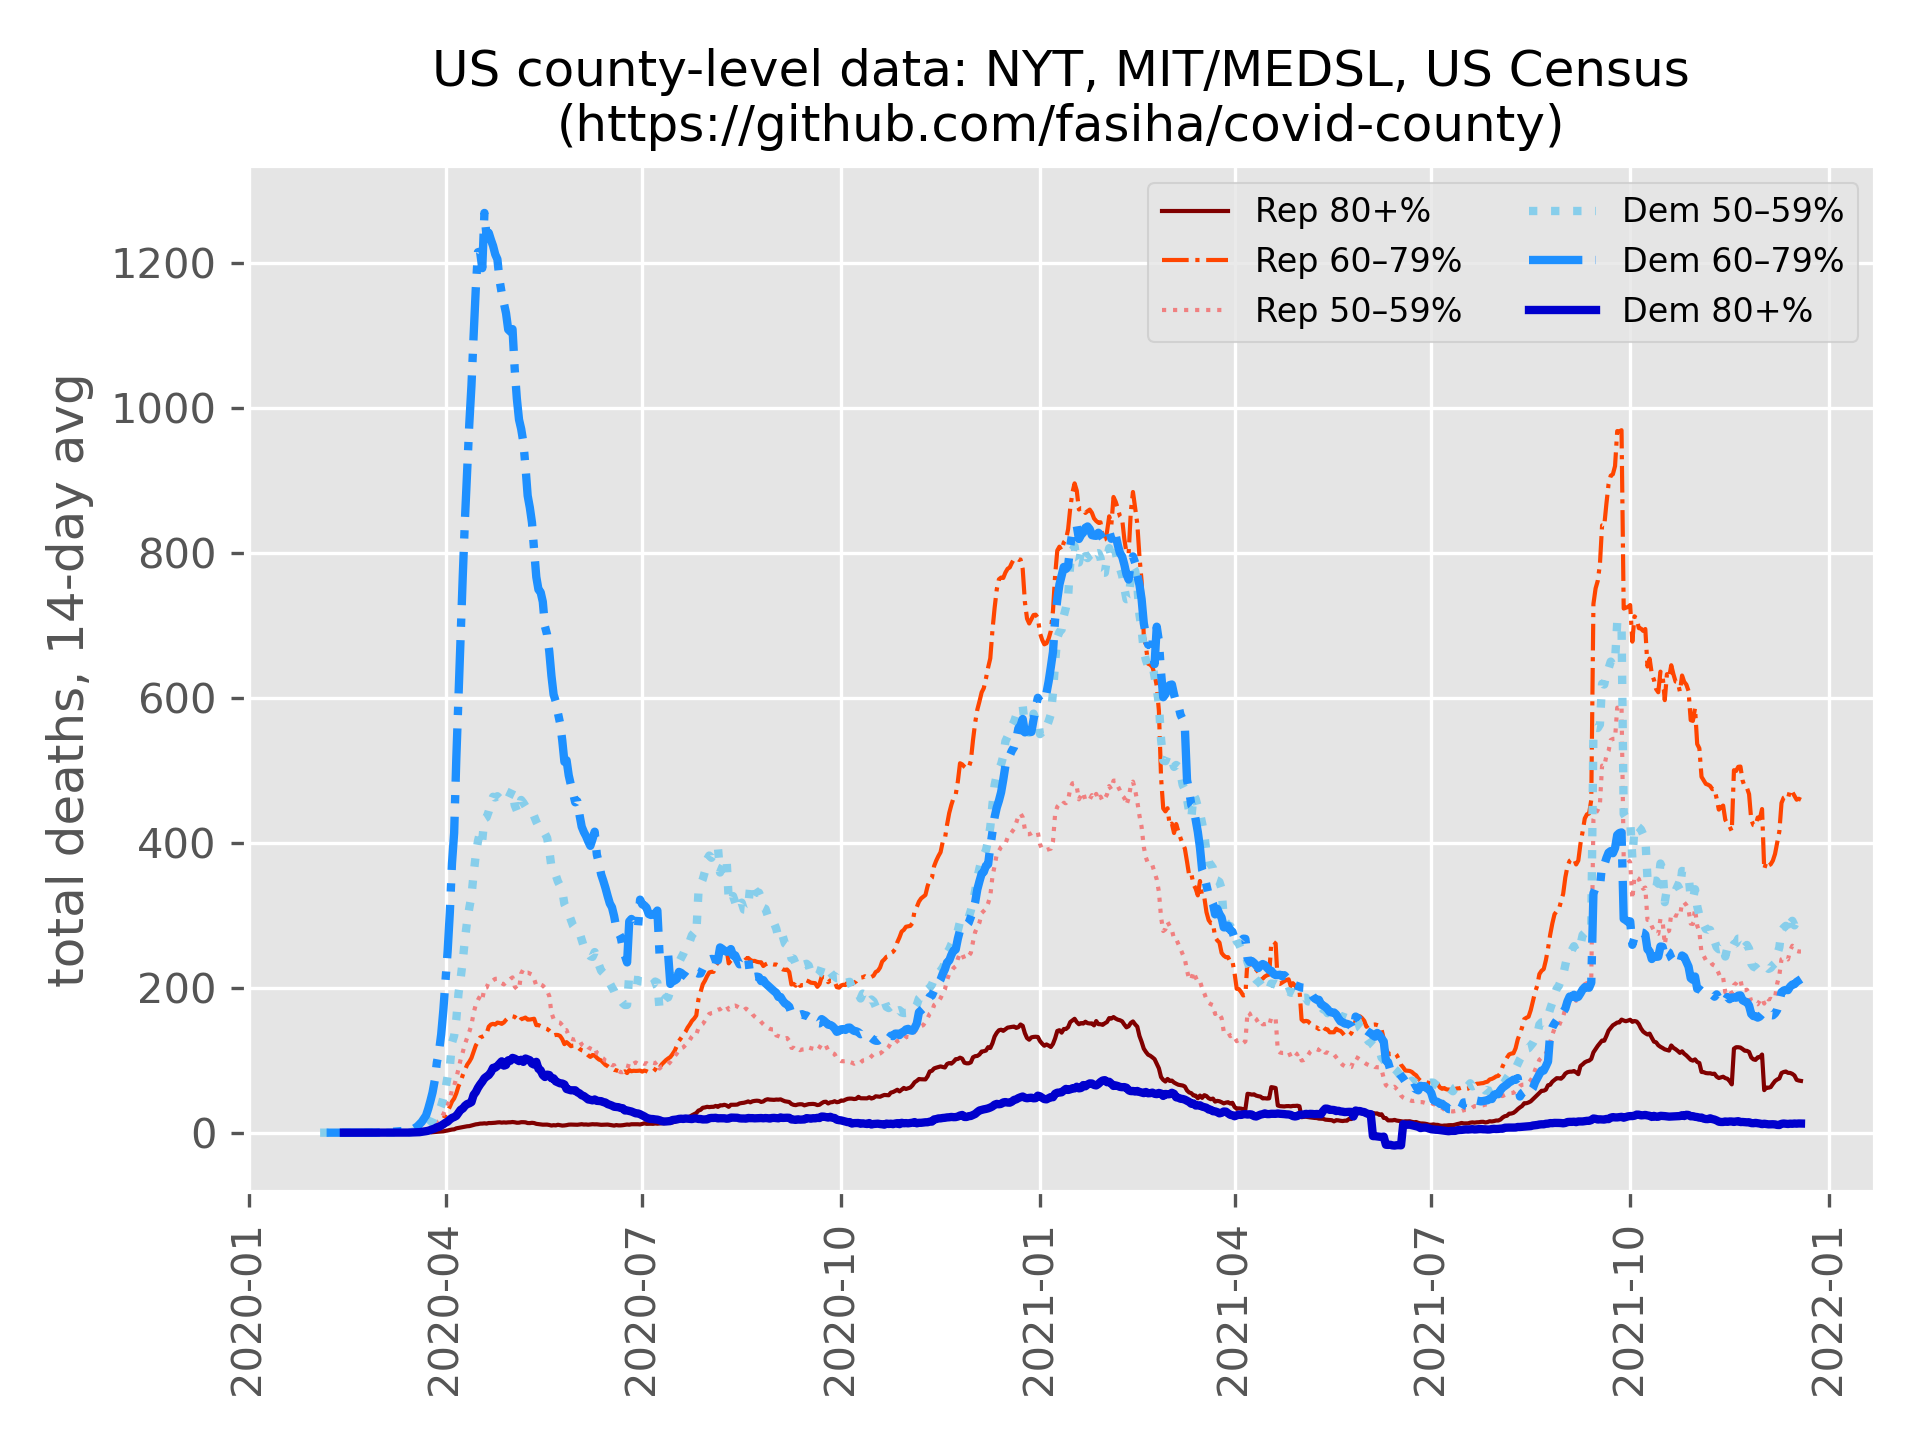
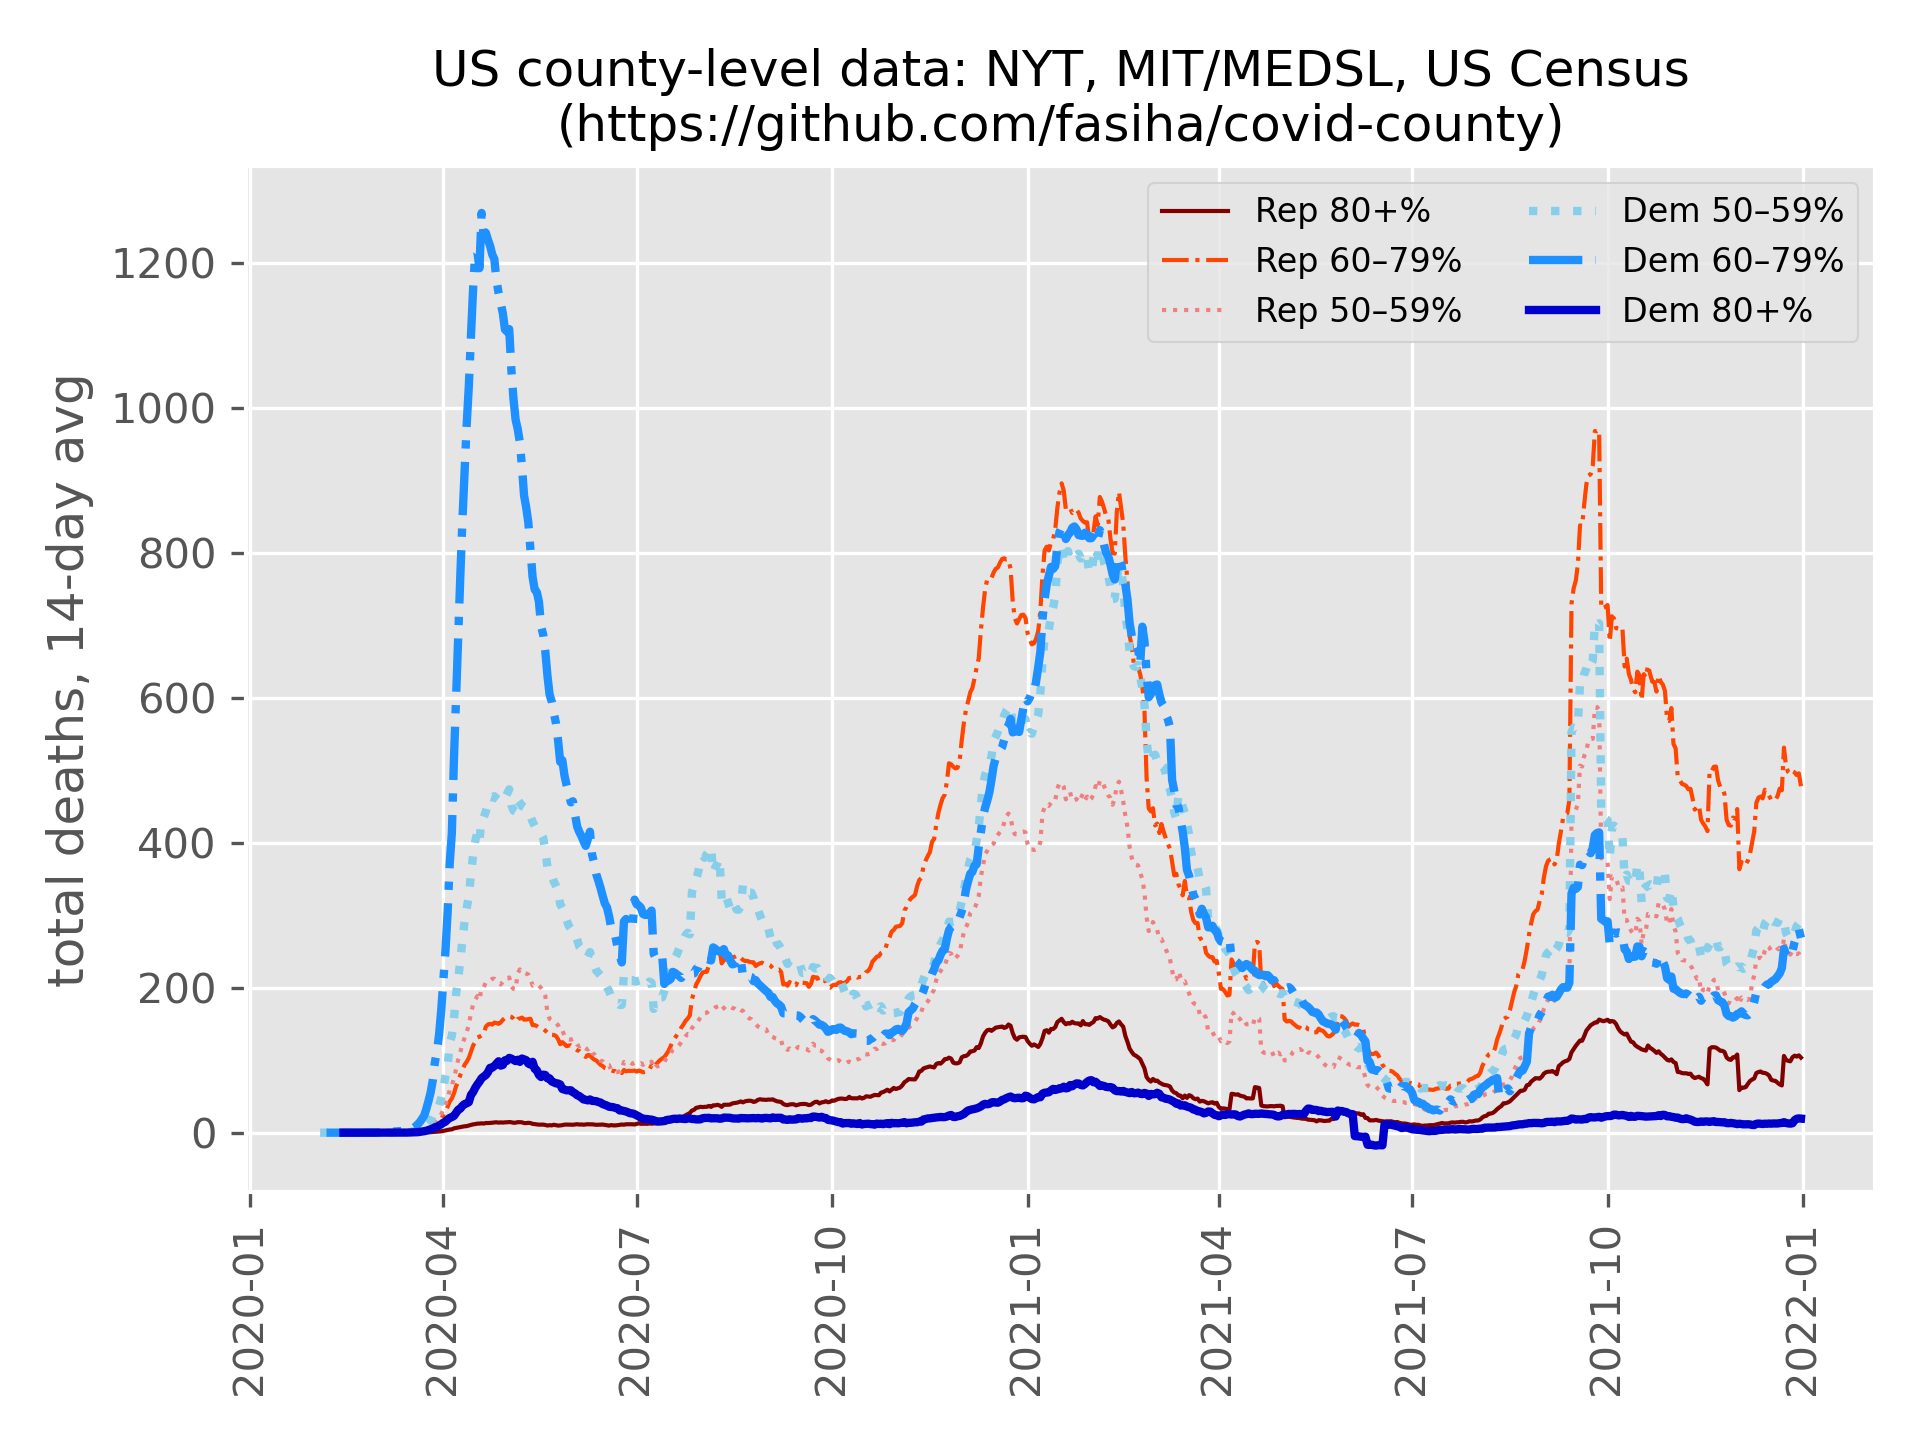
Sat Jan 15 22:28:57 PST 2022

diff --git a/README.md b/README.md
@@ -32,16 +32,16 @@ python main.py
 (Takes ~45 seconds on my 2015-vintage laptop.)
 
 ## More results
-| party bin | total Covid-19 deaths |
-|:-----------|---------:|
-| Rep 80+%   |    38284 |
-| Rep 60–79% |   211416 |
-| Rep 50–59% |   123587 |
-| Dem 50–59% |   196084 |
-| Dem 60–79% |   210070 |
-| Dem 80+%   |    18331 |
-| unknown    |     5243 |
+| party bin  | total Covid-19 deaths |
+| :--------- | --------------------: |
+| Rep 80+%   |                 39708 |
+| Rep 60–79% |                217915 |
+| Rep 50–59% |                126853 |
+| Dem 50–59% |                199702 |
+| Dem 60–79% |                213706 |
+| Dem 80+%   |                 18591 |
+| unknown    |                  5520 |
 
 Simply by party:
-- Dem: 424485
-- Rep: 373287
+- Dem: 431999
+- Rep: 384476
